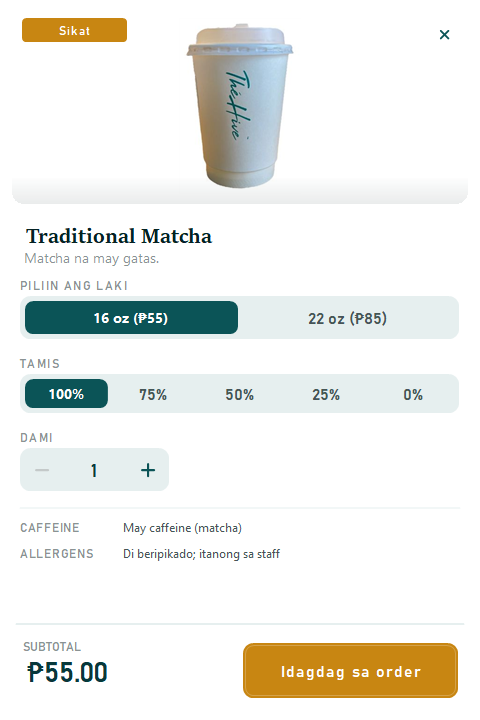
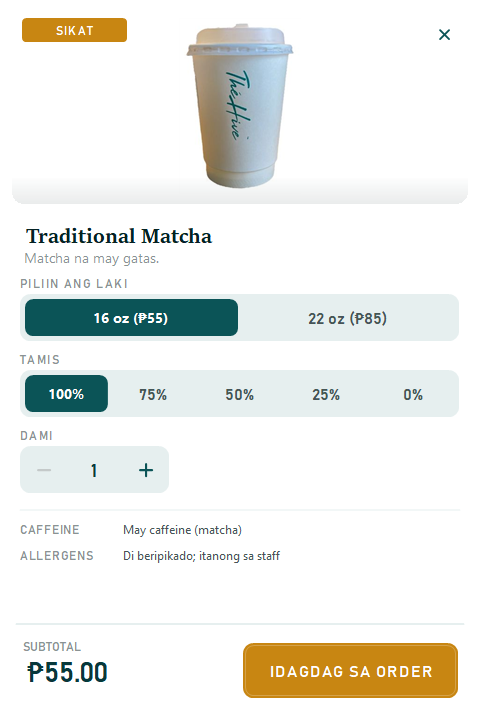
Even out the category rail, keep Filipino labels in caps, audit tap targets
Category rail
Each chip was max(108, text + 32) with a 6px gap, so short labels were
padded out and long ones were not. The chips were evenly spaced but the
labels - which is what the eye reads - sat 50, 50, 46, 46, 38, 38px apart.
Chips are now their own label plus the same padding, so every label is
36px from the next.

That also fixed two things that were hard to see:
- Classics ran 6px past the right edge and nothing peeked after it, so
  there was no sign the rail scrolled. Rice Meals, the only food
  category, could not be found. Cheesecake now shows 36px at the edge.
- Chips were sized from the English label but draw the translated one.
  They now measure what they draw.
The selected chip also sat high, 3px from the top and 8px from the
hairline; it is now centred.

Filipino tracked labels
Callers uppercase a tracked label and then TextTracked translates it. The
dictionary ignores case, so it matched and returned the Filipino in mixed
case, and letter-spaced lowercase reads as broken - "Mga p a borito".
This hit every tracked button in Filipino: Magbayad, Dagdagan, Sige. The
caller's caps now survive translation, in one place.

Touch targets
Every tap zone on every guest screen, in both languages, must be at least
48x48 with no label cut off. The first audit found:
- header back arrow and product close, 42x42 -> 48x48, same centre
- product size, temperature, sweetness and quantity rows, 40-44 -> 48.
[…]

diff --git a/kiosk/UI/HiveControls.cs b/kiosk/UI/HiveControls.cs
@@ -1,4 +1,4 @@
-using System;
+using System;
 using System.Drawing;
 using System.Drawing.Drawing2D;
 using System.Windows.Forms;
@@ -195,8 +195,7 @@ namespace kiosk.UI
                 return;
             }
 
-            int pad = Math.Min(12, Math.Max(2, Width / 8));
-            Rectangle inner = new Rectangle(pad, 0, Width - pad * 2, Height);
+            Rectangle inner = Inner();
 
             if (!string.IsNullOrEmpty(_caption))
             {
@@ -215,6 +214,40 @@ namespace kiosk.UI
             }
         }
 
+        // the label area, shared by paint and LabelFits so they cannot disagree
+        private Rectangle Inner()
+        {
+            int pad = Math.Min(12, Math.Max(2, Width / 8));
+            return new Rectangle(pad, 0, Width - pad * 2, Height);
+        }
+
+        // Widens the button until its label fits, for buttons whose text changes
+        // with the language. Measures off-screen, so it works before the button
+        // has a parent.
+        public void FitToLabel(int minWidth)
+        {
+            string label = Text ?? string.Empty;
+            using (Bitmap scratch = new Bitmap(1, 1))
+            using (Graphics g = Graphics.FromImage(scratch))
+            {
+                float need = _tracked && string.IsNullOrEmpty(_caption)
+                    ? Hive.TrackedWidth(g, Hive.TrackedLabel(label.ToUpperInvariant()), Font, 1.1f)
+                    : TextRenderer.MeasureText(g, GuestText.T(label), Font).Width;
+                // Inner() pads 12px a side once the button is 96 or wider
+                Width = Math.Max(minWidth, (int)Math.Ceiling(need) + 24 + 2);
+            }
+        }
+        // False when the label would be cut off with an ellipsis. Tracked labels
+        // are measured exactly as TextTracked draws them, caps and all.
+        public bool LabelFits(Graphics g)
+        {
+            string label = Text ?? string.Empty;
+            if (label.Length == 0) return true;
+            int room = Inner().Width;
+            if (_tracked && string.IsNullOrEmpty(_caption))
+                return Hive.TrackedWidth(g, Hive.TrackedLabel(label.ToUpperInvariant()), Font, 1.1f) <= room;
+            return TextRenderer.MeasureText(g, GuestText.T(label), Font).Width <= room;
+        }
         protected override void Dispose(bool disposing)
         {
             if (disposing) { _hover.Dispose(); _press.Dispose(); }
@@ -318,12 +351,13 @@ namespace kiosk.UI
 
             g.Clear(Hive.Surface);
             Color ink = _selected ? Color.White : Hive.InkSoft;
-            RectangleF surface = new RectangleF(2, 3, Width - 4, Height - 8);
+            // Equal margins top and bottom, with the icon and label centred inside.
+            RectangleF surface = new RectangleF(2, 4, Width - 4, Height - 8);
             if (_selected) Hive.Fill(g, surface, Hive.RadiusButton, Hive.Teal);
             else if (_hover.Value > 0.01f) Hive.Fill(g, surface, Hive.RadiusButton, Hive.SurfaceAlt);
-            CategoryIcons.Draw(g, Text, new RectangleF((Width - 24) / 2f, 10, 24, 24),
+            CategoryIcons.Draw(g, Text, new RectangleF((Width - 24) / 2f, 12, 24, 24),
                 _selected ? Hive.HoneyLight : ink);
-            Hive.Text(g, Text, Hive.BodyBold, new Rectangle(8, 39, Width - 16, 22), ink, Hive.Centered);
+            Hive.Text(g, Text, Hive.BodyBold, new Rectangle(4, 41, Width - 8, 22), ink, Hive.Centered);
         }
 
         protected override void Dispose(bool disposing)
@@ -344,6 +378,12 @@ namespace kiosk.UI
 
         public event EventHandler<ChipEventArgs> ChipSelected;
 
+        // Tuned so four English categories fit and the fifth is cut by the screen
+        // edge - the only sign a guest gets that the rail scrolls.
+        private const int ChipPadX = 15;
+        private const int ChipGap = 6;
+        private const int ChipMinWidth = 56;   // a floor for touch, not for looks
+
         public ChipRail()
         {
             SetStyle(ControlStyles.UserPaint
@@ -354,7 +394,7 @@ namespace kiosk.UI
             Height = 74;
 
             _strip = new Panel();
-            _strip.Location = new Point(Hive.Gutter, 0);
+            _strip.Location = new Point(Hive.Gutter, 2);   // centres the chips above the hairline
             _strip.BackColor = Color.Transparent;
             _strip.Height = 70;
             Controls.Add(_strip);
@@ -407,9 +447,14 @@ namespace kiosk.UI
             chip.AccessibleName = label;
             chip.AccessibleRole = AccessibleRole.PageTab;
 
-            chip.Width = Math.Max(108, TextRenderer.MeasureText(label, Hive.BodyBold).Width + 32);
+            // Each chip is its own label plus the same padding, so the gap between
+            // labels - which is what reads as the spacing - is constant all along.
+            // A fixed minimum width padded short labels out and made it uneven.
+            // Measure the translated label, since that is what the chip draws.
+            int textW = TextRenderer.MeasureText(GuestText.T(label), Hive.BodyBold).Width;
+            chip.Width = Math.Max(ChipMinWidth, textW + ChipPadX * 2);
 
-            chip.Left = _strip.Controls.Count == 0 ? 0 : LastRight() + 6;
+            chip.Left = _strip.Controls.Count == 0 ? 0 : LastRight() + ChipGap;
             chip.Click += (s, e) => { if (!_dragMoved) Select(chip); };
             AttachDrag(chip);
             _strip.Controls.Add(chip);

diff --git a/tests/SmokeTests.cs b/tests/SmokeTests.cs
@@ -18,9 +18,48 @@ class SmokeTests
         using (form) {
             form.ClientSize = new Size(480, 720);
             form.Show(); Application.DoEvents();
+            AuditTaps(form, name);
             using (var bitmap = new Bitmap(480, 720)) { form.DrawToBitmap(bitmap, new Rectangle(0, 0, 480, 720)); bitmap.Save(Path.Combine(folder, name + ".png")); }
         }
     }
+    static readonly System.Collections.Generic.List<string> TapProblems = new System.Collections.Generic.List<string>();
+
+    // Every guest tap zone at least 48x48 and no button label cut off with an
+    // ellipsis. Runs on every screen Shot renders, so a new screen is audited
+    // without anyone remembering to add it. Selectors and steppers are one
+    // control each but several tap zones, so they are measured per zone.
+    static void AuditTaps(Control root, string screen)
+    {
+        if (screen.StartsWith("staff")) return;   // staff screen is out of scope
+        using (var scratch = new Bitmap(1, 1))
+        using (var g = Graphics.FromImage(scratch))
+            AuditTaps(root, screen, g);
+    }
+
+    static void AuditTaps(Control parent, string screen, Graphics g)
+    {
+        foreach (Control c in parent.Controls)
+        {
+            if (!c.Visible) continue;
+            Size zone = Size.Empty;
+            var button = c as HiveButton;
+            var picker = c as Segmented;
+            if (button != null)
+            {
+                zone = button.Size;
+                if (!button.LabelFits(g))
+                    TapProblems.Add(screen + ": '" + button.Text + "' is cut off at " + button.Width + "px");
+            }
+            else if (picker != null && picker.Options.Length > 0) zone = new Size(picker.Width / picker.Options.Length, picker.Height);
+            else if (c is Stepper) zone = new Size(c.Height, c.Height);
+            else if (c is HiveChip || c is ProductTile || c is OrderRow || c is MethodTile) zone = c.Size;
+
+            if (!zone.IsEmpty && (zone.Width < 48 || zone.Height < 48))
+                TapProblems.Add(screen + ": " + c.GetType().Name + " '" + c.Text + "' is " + zone.Width + "x" + zone.Height);
+            AuditTaps(c, screen, g);
+        }
+    }
+
     [STAThread] static int Main(string[] args)
     {
         try {
@@ -90,6 +129,7 @@ class SmokeTests
             Shot(new EditOrderForm(lessSweet), "edit", args[0]);
             Shot(new viewOrder(), "cart", args[0]);
             Shot(new ClearOrderForm(), "clear-confirm", args[0]);
+            Shot(new NoticeForm("Check your order", "Something needs a change", "Cafe Latte is unavailable. Please remove it from your order.", "Tap the item in your order to edit or remove it.", false), "notice", args[0]);
             Shot(new StaffPage(), "staff", args[0]);
             Shot(new PaymentSelectionForm(OrderStorage.GetOrders(), OrderStorage.GetTotal()), "payment", args[0]);
             Shot(new CardPaymentForm(), "card", args[0]);
@@ -107,6 +147,7 @@ class SmokeTests
             Shot(new EditOrderForm(lessSweet), "edit-fil", args[0]);
             Shot(new viewOrder(), "cart-fil", args[0]);
             Shot(new ClearOrderForm(), "clear-confirm-fil", args[0]);
+            Shot(new NoticeForm("Check your order", "Something needs a change", "Cafe Latte is unavailable. Please remove it from your order.", "Tap the item in your order to edit or remove it.", false), "notice-fil", args[0]);
             Shot(new PaymentSelectionForm(OrderStorage.GetOrders(), OrderStorage.GetTotal()), "payment-fil", args[0]);
             Shot(new CashPaymentForm(), "cash-fil", args[0]);
             Shot(new CardPaymentForm(), "card-fil", args[0]);
@@ -222,6 +263,8 @@ class SmokeTests
                 GuestText.SetFilipino(false);
 
             }
+            Check(TapProblems.Count == 0, "every guest tap target is at least 48px and no label is cut off"
+                + (TapProblems.Count == 0 ? "" : ": " + string.Join("; ", TapProblems.ToArray())));
             Console.WriteLine("All smoke tests passed."); return 0;
         } catch(Exception ex) { Console.Error.WriteLine(ex); return 1; }
     }

diff --git a/kiosk/UI/ProductSheet.cs b/kiosk/UI/ProductSheet.cs
@@ -1,4 +1,4 @@
-using System;
+using System;
 using System.Drawing;
 using System.Drawing.Drawing2D;
 using System.Windows.Forms;
@@ -55,43 +55,49 @@ namespace kiosk.UI
 
             int left = Hive.Gutter + 4;
             int width = SheetW - left * 2;
+            // Every option row is a 48px touch target. The extra height is taken
+            // back from the label strip and the gap between rows, so the options
+            // block is the same total height it was and the notes still clear the
+            // footer.
+            const int Row = 48, LabelH = 18, RowGap = 10;
+
             int y = _heroHeight + 66;
 
             if (_product.HasSizes)
             {
-                y += 20;
+                y += LabelH;
                 _size = new Segmented();
                 _size.Options = Array.ConvertAll(_product.Sizes, s => s.Label + " (" + Hive.MoneyShort(s.Price) + ")");
-                _size.Bounds = new Rectangle(left, y, width, 44);
+                _size.Bounds = new Rectangle(left, y, width, Row);
                 _size.SelectionChanged += (s, e) => Refresh();
                 Controls.Add(_size);
-                y += 44 + 14;
+                y += Row + RowGap;
             }
 
             if (_product.HasTemperature)
             {
-                y += 20;
+                y += LabelH;
                 _temp = new Segmented();
                 _temp.Options = new[] { "Hot", "Iced" };
-                _temp.Bounds = new Rectangle(left, y, width, 44);
+                _temp.Bounds = new Rectangle(left, y, width, Row);
                 Controls.Add(_temp);
-                y += 44 + 14;
+                y += Row + RowGap;
             }
 
             if (isBeverage)
             {
-                y += 20;
+                y += LabelH;
                 _sweetness = new Segmented();
                 _sweetness.Options = new[] { "100%", "75%", "50%", "25%", "0%" };
-                _sweetness.Bounds = new Rectangle(left, y, width, 40);
+                _sweetness.Bounds = new Rectangle(left, y, width, Row);
                 _sweetness.SelectedIndex = 0;
                 Controls.Add(_sweetness);
-                y += 40 + 14;
+                y += Row + RowGap;
             }
 
-            y += 20;
+            y += LabelH;
             _qty = new Stepper();
-            _qty.Bounds = new Rectangle(left, y, 150, 44);
+            _qty.Bounds = new Rectangle(left, y, 150, Row);
             _qty.ValueChanged += (s, e) => Refresh();
             Controls.Add(_qty);
 
@@ -107,8 +113,8 @@ namespace kiosk.UI
             _close = new HiveButton();
             _close.Icon = Mark.Cross;
             _close.Style = HiveStyle.Light;
-            _close.Size = new Size(42, 42);
-            _close.Location = new Point(SheetW - 42 - 14, 14);
+            _close.Size = new Size(48, 48);
+            _close.Location = new Point(SheetW - 48 - 11, 11);   // same centre as before
             _close.Click += (s, e) => Nav.Back();
             Controls.Add(_close);
 

diff --git a/kiosk/UI/Hive.cs b/kiosk/UI/Hive.cs
@@ -1,4 +1,4 @@
-using System;
+using System;
 using System.Diagnostics;
 using System.Drawing;
 using System.Drawing.Drawing2D;
@@ -343,17 +343,12 @@ namespace kiosk.UI
                                        Color color, float tracking, bool center)
         {
             if (string.IsNullOrEmpty(text)) return;
-            text = GuestText.T(text);
+            text = TrackedLabel(text);
 
             const TextFormatFlags flags = TextFormatFlags.NoPadding | TextFormatFlags.NoPrefix;
 
-            float total = 0;
-            float[] widths = new float[text.Length];
-            for (int i = 0; i < text.Length; i++)
-            {
-                widths[i] = TextRenderer.MeasureText(g, text[i].ToString(), font, Size.Empty, flags).Width;
-                total += widths[i] + (i < text.Length - 1 ? tracking : 0);
-            }
+            float[] widths;
+            float total = TrackedWidth(g, text, font, tracking, out widths);
 
             if (total > bounds.Width)
             {
@@ -372,6 +367,38 @@ namespace kiosk.UI
                                       new Point((int)Math.Round(x), y), color, flags);
                 x += widths[i] + tracking;
             }
+        }
+        // Callers pass tracked labels in caps, but the dictionary matches without
+        // regard to case and hands back the Filipino in mixed case. Letter-spaced
+        // lowercase looks broken ("Mga p a borito"), so keep the caps the caller
+        // asked for.
+        public static string TrackedLabel(string text)
+        {
+            if (string.IsNullOrEmpty(text)) return text;
+            bool caps = text == text.ToUpperInvariant();
+            text = GuestText.T(text);
+            return caps ? text.ToUpperInvariant() : text;
+        }
+
+        // The width TextTracked will actually use. Shared so anything checking
+        // whether a label fits measures it the same way it gets drawn.
+        public static float TrackedWidth(Graphics g, string label, Font font, float tracking)
+        {
+            float[] unused;
+            return TrackedWidth(g, label, font, tracking, out unused);
+        }
+
+        private static float TrackedWidth(Graphics g, string label, Font font, float tracking, out float[] widths)
+        {
+            const TextFormatFlags flags = TextFormatFlags.NoPadding | TextFormatFlags.NoPrefix;
+            float total = 0;
+            widths = new float[label.Length];
+            for (int i = 0; i < label.Length; i++)
+            {
+                widths[i] = TextRenderer.MeasureText(g, label[i].ToString(), font, Size.Empty, flags).Width;
+                total += widths[i] + (i < label.Length - 1 ? tracking : 0);
+            }
+            return total;
         }
 
         public const TextFormatFlags Centered =

diff --git a/kiosk/OrderForms/EditOrderForm.cs b/kiosk/OrderForms/EditOrderForm.cs
@@ -1,4 +1,4 @@
-using System;
+using System;
 using System.Drawing;
 using System.Drawing.Drawing2D;
 using System.Windows.Forms;
@@ -69,9 +69,9 @@ namespace kiosk
             {
                 y += 22;
                 _sweetness = new Segmented { Options = new[] { "100%", "75%", "50%", "25%", "0%" } };
-                _sweetness.Bounds = new Rectangle(left, y, width, 44);
+                _sweetness.Bounds = new Rectangle(left, y, width, Hive.TapTarget);   // same as its neighbours
                 Controls.Add(_sweetness);
-                y += 58;
+                y += Hive.TapTarget + 14;
             }
 
             y += 22;
@@ -89,7 +89,7 @@ namespace kiosk
             _remove.Text = "Remove item";
             _remove.Style = HiveStyle.Ghost;
             _remove.TextColor = Hive.Danger;
-            _remove.Bounds = new Rectangle(left, footerTop - 60, width, 44);
+            _remove.Bounds = new Rectangle(left, footerTop - 64, width, 48);
             _remove.Click += RemoveClicked;
             Controls.Add(_remove);
 

diff --git a/kiosk/UI/HiveViews.cs b/kiosk/UI/HiveViews.cs
@@ -1,4 +1,4 @@
-using System;
+using System;
 using System.Collections.Generic;
 using System.Drawing;
 using System.Drawing.Drawing2D;
@@ -37,8 +37,8 @@ namespace kiosk.UI
                 _back.Icon = Mark.ArrowLeft;
                 _back.Style = HiveStyle.Ghost;
                 _back.TextColor = Color.White;
-                _back.Size = new Size(42, 42);
-                _back.Location = new Point(Hive.Gutter - 6, 25);
+                _back.Size = new Size(48, 48);
+                _back.Location = new Point(Hive.Gutter - 9, (Height - 48) / 2);   // same centre as the old 42px button
                 Controls.Add(_back);
             }
             _back.Click += onBack;
@@ -70,7 +70,7 @@ namespace kiosk.UI
 
             if (_back != null)
             {
-                left = _back.Right + 6;
+                left = _back.Right + 3;   // the button grew 3px each side; keep the title where it was
             }
             else if (_mark != null)
             {

diff --git a/kiosk/OrderForms/viewOrder.cs b/kiosk/OrderForms/viewOrder.cs
@@ -1,4 +1,4 @@
-using System;
+using System;
 using System.Collections.Generic;
 using System.Drawing;
 using System.Drawing.Drawing2D;
@@ -27,6 +27,7 @@ namespace kiosk
             ShowInTaskbar = false;
 
             header.ShowBack((s, e) => Nav.Back());
+            _clear.FitToLabel(96);   // "Burahin" in caps does not fit the English width
             header.SetAccessory(_clear);
             _clear.Click += (s, e) => {
                 if (OrderStorage.Orders.Count > 0) Nav.Go(new ClearOrderForm());
